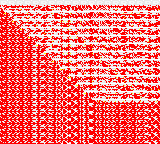
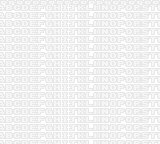
more window timing fixes

diff --git a/gb/src/ppu/ppu.rs b/gb/src/ppu/ppu.rs
@@ -52,6 +52,8 @@ const LCD_ON_LINE_CLOCKS: u32 = 1;
 const PIPELINE_START: u32 = 78;
 // Dots after the pipeline start before the fetcher starts its first (thrown away) fetch
 const FETCHER_START_DELAY: u8 = 2;
+// Dot of the first visible pixel with SCX % 8 = 0 (without window) - two fetches of 6 dots + push
+const FIRST_PIXEL_DOT: u32 = PIPELINE_START + FETCHER_START_DELAY as u32 + 2 * 7;
 // Dot of the line 144 when STAT enters mode 1 and V-Blank interrupt is requested
 const VBLANK_START: u32 = 3;
 const STAT_UNUSED_MASK: u8 = 0b1000_0000;
@@ -537,60 +539,73 @@ impl Ppu {
             &mut self.bg_fifo,
         );
 
+        // SCX fine scroll is compared live on every dot until it matches the discarded pixels count
+        if !self.bg_fifo.is_empty()
+            && !self.fine_scroll_done
+            && self.dropped_pixels == self.scx % (TILE_SIZE as u8)
+        {
+            self.fine_scroll_done = true;
+        }
+        let scx_discarded = self.fine_scroll_done;
+
+        // Window trigger - BG FIFO is cleared and the fetcher starts over with the window tiles.
+        // It doesn't depend on LCDC.0, the window just isn't rendered then.
+        let window_enabled = is_window_enabled(&self.lcdc) && self.window_line_enabled;
+        if window_enabled && self.fetcher.layer != MapLayer::Window && self.x == 0 && self.wx < 7 {
+            // WX < 7 - the window is triggered (7 - WX) dots before the first visible pixel,
+            // while the first (junk) tile is still being shifted out on hardware. The first
+            // (7 - WX) window pixels are then discarded, so the timing matches WX = 7.
+            // With WX = 0 and SCX % 8 > 0 the window is triggered one dot later.
+            let fine_scroll = self.scx % (TILE_SIZE as u8);
+            let dots_to_first_pixel = if scx_discarded {
+                0
+            } else {
+                FIRST_PIXEL_DOT.saturating_sub(self.line_clocks) as u8
+                    + fine_scroll.saturating_sub(self.dropped_pixels)
+            };
+            let trigger_at = if self.wx == 0 && fine_scroll > 0 {
+                6
+            } else {
+                7 - self.wx
+            };
+            if dots_to_first_pixel == trigger_at {
+                self.start_window();
+                self.fine_scroll_done = true;
+                return;
+            }
+        }
+
         if self.bg_fifo.is_empty() {
             return;
         }
 
-        // Window trigger - BG FIFO is cleared and the fetcher starts over with the window tiles
-        // SCX fine scroll is compared live on every dot until it matches the discarded pixels count
-        if !self.fine_scroll_done && self.dropped_pixels == self.scx % (TILE_SIZE as u8) {
-            self.fine_scroll_done = true;
-        }
-        let scx_discarded = self.fine_scroll_done;
         // The window doesn't trigger at WX=166 on DMG
         let max_wx = if self.is_cgb { 166 } else { 165 };
-        // The trigger doesn't depend on LCDC.0, the window just isn't rendered then
-        if is_window_enabled(&self.lcdc)
-            && self.window_line_enabled
+        if window_enabled
             && self.fetcher.layer != MapLayer::Window
             && scx_discarded
-            && self.wx <= max_wx
-            && self.x == self.wx.saturating_sub(7)
+            && (7..=max_wx).contains(&self.wx)
+            && self.x == self.wx - 7
         {
-            self.bg_fifo.clear();
-            self.fetcher.start_window(self.window_line);
-            self.window_line += 1;
-            // WX is sampled at the trigger, it can be changed during mode 3
-            self.window_x = (self.wx as i32) - 7;
-
-            // WX < 7 - on hardware the window is triggered (7 - WX) dots earlier, while the first
-            // (junk) tile is still being shifted out. Catch the fetcher up, the first (7 - WX)
-            // window pixels are then discarded below in the time the window would have taken.
-            let head_start = 7u8.saturating_sub(self.wx);
-            for _ in 0..head_start {
-                self.fetcher.tick(
-                    &self.vram,
-                    &self.lcdc,
-                    self.scx,
-                    self.ly.wrapping_add(self.scy),
-                    &mut self.bg_fifo,
-                );
-            }
-            if self.bg_fifo.is_empty() {
-                return;
-            }
-
-            // WX=0 with SCX%8=0 triggers 7 dots before the first visible pixel, but the fetcher
-            // can't push sooner than on this dot - shift out one of the 7 discarded pixels now.
-            // (with SCX%8>0 WX=0 triggers one dot later, the timing then matches the model)
-            if self.wx == 0 && self.scx % (TILE_SIZE as u8) == 0 {
-                self.bg_fifo.shift();
-                self.window_x += 1;
-            }
+            self.start_window();
+            return;
         }
 
-        let Some(fifo_item) = self.bg_fifo.shift() else {
-            return;
+        // DMG - WX matching again while the window is active inserts a color 0 pixel, if it happens
+        // when the window tile ID read starts (right after a push). The FIFO is not shifted then.
+        let insert_pixel = !self.is_cgb
+            && self.window_x >= 0
+            && self.wx as u16 == self.x as u16 + 7
+            && self.bg_fifo.is_full()
+            && self.fetcher.is_window_tile_start();
+
+        let fifo_item = if insert_pixel {
+            FifoItem::EMPTY
+        } else {
+            let Some(fifo_item) = self.bg_fifo.shift() else {
+                return;
+            };
+            fifo_item
         };
 
         // discard pixels from tile that are not visible due to X scroll (the FIFO is clocked even if BG is disabled)
@@ -600,7 +615,6 @@ impl Ppu {
         }
 
         // WX is between <0,6> - discard pixels of the first window tile
-        // TODO WX=0 is probably broken somehow https://discord.com/channels/465585922579103744/465586075830845475/786173202211799051
         if self.fetcher.layer == MapLayer::Window && self.window_x < 0 {
             self.window_x += 1;
             return;
@@ -626,6 +640,14 @@ impl Ppu {
         }
 
         self.x += 1;
+    }
+
+    fn start_window(&mut self) {
+        self.bg_fifo.clear();
+        self.fetcher.start_window(self.window_line);
+        self.window_line += 1;
+        // WX is sampled at the trigger, it can be changed during mode 3
+        self.window_x = (self.wx as i32) - 7;
     }
 
     fn get_bg_tile_priority(&self, fifo_item: &FifoItem) -> BgToOamPriority {

diff --git a/gb/src/ppu/fetcher.rs b/gb/src/ppu/fetcher.rs
@@ -26,7 +26,7 @@ pub struct FifoItem {
 }
 
 impl FifoItem {
-    const EMPTY: FifoItem = FifoItem {
+    pub const EMPTY: FifoItem = FifoItem {
         color_number: 0,
         priority: BgToOamPriority::OamPriorityBit,
         palette: 0,
@@ -59,6 +59,10 @@ impl BgFifo {
 
     pub fn is_empty(&self) -> bool {
         self.len == 0
+    }
+
+    pub fn is_full(&self) -> bool {
+        self.len == TILE_WIDTH
     }
 
     pub fn clear(&mut self) {
@@ -150,6 +154,15 @@ impl Fetcher {
         self.window_y = window_y;
         // The dot of the window trigger is the first dot of the tile ID fetch
         self.step_dot = 1;
+    }
+
+    /// The window is already active (past its first tile) and the next tile ID read starts
+    /// on the next dot (right after a push)
+    pub fn is_window_tile_start(&self) -> bool {
+        self.layer == MapLayer::Window
+            && self.tile_x > 1
+            && self.step == FetcherStep::GetTileId
+            && self.step_dot == 0
     }
 
     fn tile_y(&self, bg_y: u8) -> u8 {

diff --git a/docs/results/results.md b/docs/results/results.md
@@ -239,32 +239,32 @@ https://github.com/EricKirschenmann/MBC3-Tester-gb
 
 https://github.com/mattcurrie/mealybug-tearoom-tests
 
-| Name                              | Expected                                            | Result                                            | Diff                                            | Status         |
-| --------------------------------- | --------------------------------------------------- | ------------------------------------------------- | ----------------------------------------------- | -------------- |
-| m2_win_en_toggle                  | ![](m2_win_en_toggle/expected.png)                  | ![](m2_win_en_toggle/result.png)                  | ![](m2_win_en_toggle/diff.png)                  | ✅ Diff: 0     |
-| m3_bgp_change                     | ![](m3_bgp_change/expected.png)                     | ![](m3_bgp_change/result.png)                     | ![](m3_bgp_change/diff.png)                     | ✅ Diff: 0     |
-| m3_bgp_change_sprites             | ![](m3_bgp_change_sprites/expected.png)             | ![](m3_bgp_change_sprites/result.png)             | ![](m3_bgp_change_sprites/diff.png)             | ❌ Diff: 6865  |
-| m3_lcdc_bg_en_change              | ![](m3_lcdc_bg_en_change/expected.png)              | ![](m3_lcdc_bg_en_change/result.png)              | ![](m3_lcdc_bg_en_change/diff.png)              | ❌ Diff: 2874  |
-| m3_lcdc_bg_map_change             | ![](m3_lcdc_bg_map_change/expected.png)             | ![](m3_lcdc_bg_map_change/result.png)             | ![](m3_lcdc_bg_map_change/diff.png)             | ❌ Diff: 1098  |
-| m3_lcdc_obj_en_change             | ![](m3_lcdc_obj_en_change/expected.png)             | ![](m3_lcdc_obj_en_change/result.png)             | ![](m3_lcdc_obj_en_change/diff.png)             | ❌ Diff: 146   |
-| m3_lcdc_obj_en_change_variant     | ![](m3_lcdc_obj_en_change_variant/expected.png)     | ![](m3_lcdc_obj_en_change_variant/result.png)     | ![](m3_lcdc_obj_en_change_variant/diff.png)     | ❌ Diff: 1145  |
-| m3_lcdc_obj_size_change           | ![](m3_lcdc_obj_size_change/expected.png)           | ![](m3_lcdc_obj_size_change/result.png)           | ![](m3_lcdc_obj_size_change/diff.png)           | ❌ Diff: 309   |
-| m3_lcdc_obj_size_change_scx       | ![](m3_lcdc_obj_size_change_scx/expected.png)       | ![](m3_lcdc_obj_size_change_scx/result.png)       | ![](m3_lcdc_obj_size_change_scx/diff.png)       | ❌ Diff: 190   |
-| m3_lcdc_tile_sel_change           | ![](m3_lcdc_tile_sel_change/expected.png)           | ![](m3_lcdc_tile_sel_change/result.png)           | ![](m3_lcdc_tile_sel_change/diff.png)           | ❌ Diff: 1934  |
-| m3_lcdc_tile_sel_win_change       | ![](m3_lcdc_tile_sel_win_change/expected.png)       | ![](m3_lcdc_tile_sel_win_change/result.png)       | ![](m3_lcdc_tile_sel_win_change/diff.png)       | ❌ Diff: 1563  |
-| m3_lcdc_win_en_change_multiple    | ![](m3_lcdc_win_en_change_multiple/expected.png)    | ![](m3_lcdc_win_en_change_multiple/result.png)    | ![](m3_lcdc_win_en_change_multiple/diff.png)    | ❌ Diff: 8169  |
-| m3_lcdc_win_en_change_multiple_wx | ![](m3_lcdc_win_en_change_multiple_wx/expected.png) | ![](m3_lcdc_win_en_change_multiple_wx/result.png) | ![](m3_lcdc_win_en_change_multiple_wx/diff.png) | ❌ Diff: 3741  |
-| m3_lcdc_win_map_change            | ![](m3_lcdc_win_map_change/expected.png)            | ![](m3_lcdc_win_map_change/result.png)            | ![](m3_lcdc_win_map_change/diff.png)            | ❌ Diff: 2052  |
-| m3_obp0_change                    | ![](m3_obp0_change/expected.png)                    | ![](m3_obp0_change/result.png)                    | ![](m3_obp0_change/diff.png)                    | ❌ Diff: 414   |
-| m3_scx_high_5_bits                | ![](m3_scx_high_5_bits/expected.png)                | ![](m3_scx_high_5_bits/result.png)                | ![](m3_scx_high_5_bits/diff.png)                | ❌ Diff: 84    |
-| m3_scx_low_3_bits                 | ![](m3_scx_low_3_bits/expected.png)                 | ![](m3_scx_low_3_bits/result.png)                 | ![](m3_scx_low_3_bits/diff.png)                 | ❌ Diff: 540   |
-| m3_scy_change                     | ![](m3_scy_change/expected.png)                     | ![](m3_scy_change/result.png)                     | ![](m3_scy_change/diff.png)                     | ❌ Diff: 9590  |
-| m3_window_timing                  | ![](m3_window_timing/expected.png)                  | ![](m3_window_timing/result.png)                  | ![](m3_window_timing/diff.png)                  | ✅ Diff: 0     |
-| m3_window_timing_wx_0             | ![](m3_window_timing_wx_0/expected.png)             | ![](m3_window_timing_wx_0/result.png)             | ![](m3_window_timing_wx_0/diff.png)             | ✅ Diff: 0     |
-| m3_wx_4_change                    | ![](m3_wx_4_change/expected.png)                    | ![](m3_wx_4_change/result.png)                    | ![](m3_wx_4_change/diff.png)                    | ❌ Diff: 12207 |
-| m3_wx_4_change_sprites            | ![](m3_wx_4_change_sprites/expected.png)            | ![](m3_wx_4_change_sprites/result.png)            | ![](m3_wx_4_change_sprites/diff.png)            | ❌ Diff: 10    |
-| m3_wx_5_change                    | ![](m3_wx_5_change/expected.png)                    | ![](m3_wx_5_change/result.png)                    | ![](m3_wx_5_change/diff.png)                    | ❌ Diff: 11806 |
-| m3_wx_6_change                    | ![](m3_wx_6_change/expected.png)                    | ![](m3_wx_6_change/result.png)                    | ![](m3_wx_6_change/diff.png)                    | ❌ Diff: 5757  |
+| Name                              | Expected                                            | Result                                            | Diff                                            | Status        |
+| --------------------------------- | --------------------------------------------------- | ------------------------------------------------- | ----------------------------------------------- | ------------- |
+| m2_win_en_toggle                  | ![](m2_win_en_toggle/expected.png)                  | ![](m2_win_en_toggle/result.png)                  | ![](m2_win_en_toggle/diff.png)                  | ✅ Diff: 0    |
+| m3_bgp_change                     | ![](m3_bgp_change/expected.png)                     | ![](m3_bgp_change/result.png)                     | ![](m3_bgp_change/diff.png)                     | ✅ Diff: 0    |
+| m3_bgp_change_sprites             | ![](m3_bgp_change_sprites/expected.png)             | ![](m3_bgp_change_sprites/result.png)             | ![](m3_bgp_change_sprites/diff.png)             | ❌ Diff: 6865 |
+| m3_lcdc_bg_en_change              | ![](m3_lcdc_bg_en_change/expected.png)              | ![](m3_lcdc_bg_en_change/result.png)              | ![](m3_lcdc_bg_en_change/diff.png)              | ❌ Diff: 2874 |
+| m3_lcdc_bg_map_change             | ![](m3_lcdc_bg_map_change/expected.png)             | ![](m3_lcdc_bg_map_change/result.png)             | ![](m3_lcdc_bg_map_change/diff.png)             | ❌ Diff: 1098 |
+| m3_lcdc_obj_en_change             | ![](m3_lcdc_obj_en_change/expected.png)             | ![](m3_lcdc_obj_en_change/result.png)             | ![](m3_lcdc_obj_en_change/diff.png)             | ❌ Diff: 146  |
+| m3_lcdc_obj_en_change_variant     | ![](m3_lcdc_obj_en_change_variant/expected.png)     | ![](m3_lcdc_obj_en_change_variant/result.png)     | ![](m3_lcdc_obj_en_change_variant/diff.png)     | ❌ Diff: 1145 |
+| m3_lcdc_obj_size_change           | ![](m3_lcdc_obj_size_change/expected.png)           | ![](m3_lcdc_obj_size_change/result.png)           | ![](m3_lcdc_obj_size_change/diff.png)           | ❌ Diff: 309  |
+| m3_lcdc_obj_size_change_scx       | ![](m3_lcdc_obj_size_change_scx/expected.png)       | ![](m3_lcdc_obj_size_change_scx/result.png)       | ![](m3_lcdc_obj_size_change_scx/diff.png)       | ❌ Diff: 190  |
+| m3_lcdc_tile_sel_change           | ![](m3_lcdc_tile_sel_change/expected.png)           | ![](m3_lcdc_tile_sel_change/result.png)           | ![](m3_lcdc_tile_sel_change/diff.png)           | ❌ Diff: 1934 |
+| m3_lcdc_tile_sel_win_change       | ![](m3_lcdc_tile_sel_win_change/expected.png)       | ![](m3_lcdc_tile_sel_win_change/result.png)       | ![](m3_lcdc_tile_sel_win_change/diff.png)       | ❌ Diff: 1563 |
+| m3_lcdc_win_en_change_multiple    | ![](m3_lcdc_win_en_change_multiple/expected.png)    | ![](m3_lcdc_win_en_change_multiple/result.png)    | ![](m3_lcdc_win_en_change_multiple/diff.png)    | ❌ Diff: 8657 |
+| m3_lcdc_win_en_change_multiple_wx | ![](m3_lcdc_win_en_change_multiple_wx/expected.png) | ![](m3_lcdc_win_en_change_multiple_wx/result.png) | ![](m3_lcdc_win_en_change_multiple_wx/diff.png) | ❌ Diff: 3741 |
+| m3_lcdc_win_map_change            | ![](m3_lcdc_win_map_change/expected.png)            | ![](m3_lcdc_win_map_change/result.png)            | ![](m3_lcdc_win_map_change/diff.png)            | ❌ Diff: 2052 |
+| m3_obp0_change                    | ![](m3_obp0_change/expected.png)                    | ![](m3_obp0_change/result.png)                    | ![](m3_obp0_change/diff.png)                    | ❌ Diff: 414  |
+| m3_scx_high_5_bits                | ![](m3_scx_high_5_bits/expected.png)                | ![](m3_scx_high_5_bits/result.png)                | ![](m3_scx_high_5_bits/diff.png)                | ❌ Diff: 84   |
+| m3_scx_low_3_bits                 | ![](m3_scx_low_3_bits/expected.png)                 | ![](m3_scx_low_3_bits/result.png)                 | ![](m3_scx_low_3_bits/diff.png)                 | ❌ Diff: 540  |
+| m3_scy_change                     | ![](m3_scy_change/expected.png)                     | ![](m3_scy_change/result.png)                     | ![](m3_scy_change/diff.png)                     | ❌ Diff: 9590 |
+| m3_window_timing                  | ![](m3_window_timing/expected.png)                  | ![](m3_window_timing/result.png)                  | ![](m3_window_timing/diff.png)                  | ✅ Diff: 0    |
+| m3_window_timing_wx_0             | ![](m3_window_timing_wx_0/expected.png)             | ![](m3_window_timing_wx_0/result.png)             | ![](m3_window_timing_wx_0/diff.png)             | ✅ Diff: 0    |
+| m3_wx_4_change                    | ![](m3_wx_4_change/expected.png)                    | ![](m3_wx_4_change/result.png)                    | ![](m3_wx_4_change/diff.png)                    | ✅ Diff: 0    |
+| m3_wx_4_change_sprites            | ![](m3_wx_4_change_sprites/expected.png)            | ![](m3_wx_4_change_sprites/result.png)            | ![](m3_wx_4_change_sprites/diff.png)            | ✅ Diff: 0    |
+| m3_wx_5_change                    | ![](m3_wx_5_change/expected.png)                    | ![](m3_wx_5_change/result.png)                    | ![](m3_wx_5_change/diff.png)                    | ✅ Diff: 0    |
+| m3_wx_6_change                    | ![](m3_wx_6_change/expected.png)                    | ![](m3_wx_6_change/result.png)                    | ![](m3_wx_6_change/diff.png)                    | ✅ Diff: 0    |
 
 ## AGE test suite
 
@@ -284,4 +284,4 @@ Only DMG-related tests for now. From https://github.com/c-sp/age-test-roms
 | roms/age-test-roms/build/stat-mode-window/stat-mode-window-dmgC.gb          | ✅     | ![](age-tests/stat-mode-window-dmgC.gb/result.png)         |
 | roms/age-test-roms/build/vram/vram-read-dmgC.gb                             | ✅     | ![](age-tests/vram-read-dmgC.gb/result.png)                |
 
-Generated at: 2026-10-06 14:31:59.372931 UTC, took 3s
+Generated at: 2026-10-06 15:14:44.232798 UTC, took 3s
